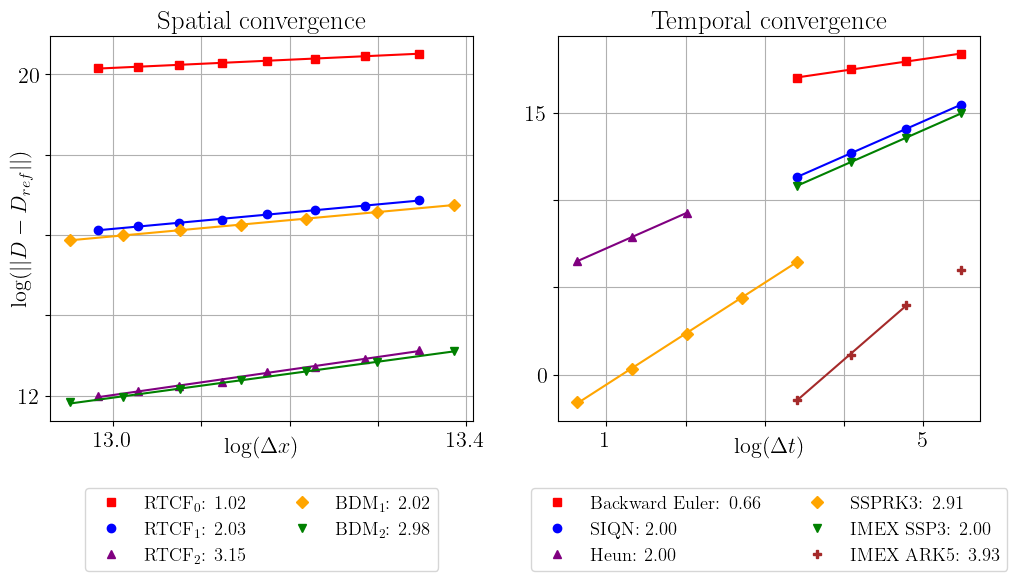
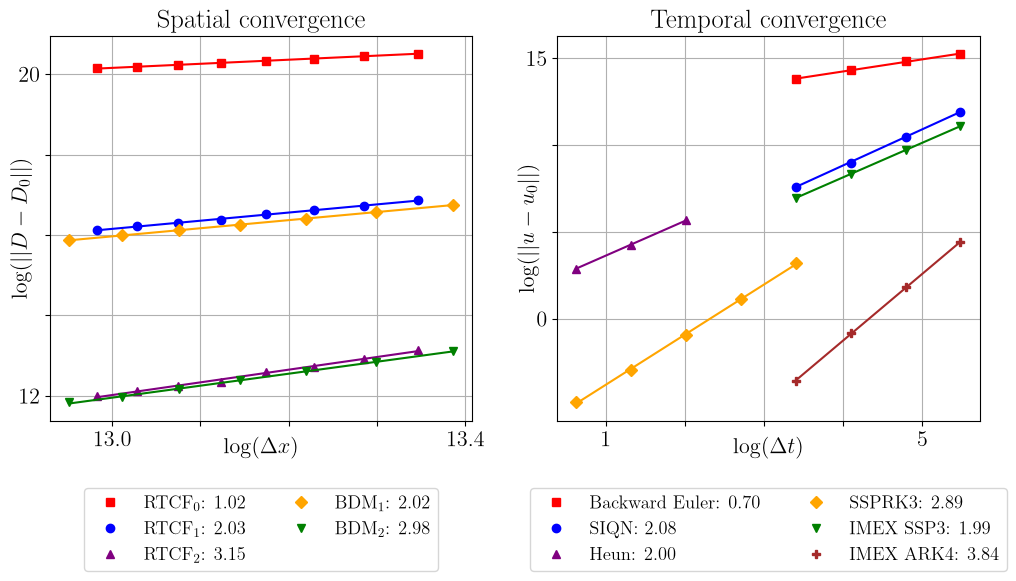
final plotting and test scripts

diff --git a/test_scripts/compute_w6_error_data.py b/test_scripts/compute_w6_error_data.py
@@ -3,14 +3,14 @@ Computes error data for Williamson 6 temporal convergence test
 """
 
 import os
-from firedrake import Function, errornorm, CheckpointFile
+from firedrake import Function, errornorm, norm, CheckpointFile
 from netCDF4 import Dataset
 
 # -----------------------------------------
 # Configuration
 # -----------------------------------------
 
-raw_data_dir = '/data/users/alex.brown/data/isambard/w6_convergence/'
+raw_data_dir = '/data/users/alex.brown/data/gusto_paper_oct26/w6_convergence/'
 base_results_dir = f'{os.path.abspath(os.path.dirname(__file__))}/../results/'
 base_results_name = 'w6'
 
@@ -18,7 +18,7 @@ NCELLS = 128
 element = "RTCF1"
 
 # Implicit schemes and their dt values
-IMPLICIT_SCHEMES = ["backward_euler", "siqn", "imex_ark5", "imex_ssp3"]
+IMPLICIT_SCHEMES = ["backward_euler", "siqn", "imex_ark4", "imex_ssp3"]
 IMPLICIT_DTS     = [240.0, 120.0, 60.0, 30.0]
 IMPLICIT_DT_STRS = ["240", "120", "60", "30"]
 
@@ -40,7 +40,8 @@ def chkpt_path(base, scheme, dt_str):
     return os.path.join(base, scheme, dirname, "chkpt.h5")
 
 def true_chkpt_path(base):
-    return os.path.join(base, "true", "chkpt.h5")
+    dirname = "williamson6_dt1_C128_RK4C128"
+    return os.path.join(base, "true", dirname, "chkpt.h5")
 
 # -----------------------------------------
 # Load checkpoint
@@ -59,7 +60,7 @@ def load_chkpt(path):
 # Compute errors for one scheme
 # -----------------------------------------
 
-def compute_errors(base, scheme, dts, dt_strs, D_true, t_true):
+def compute_errors(base, scheme, dts, dt_strs, D_true, u_true, t_true):
     for dt, dt_str in zip(dts, dt_strs):
         path = chkpt_path(base, scheme, dt_str)
         if not os.path.exists(path):
@@ -70,7 +71,7 @@ def compute_errors(base, scheme, dts, dt_strs, D_true, t_true):
             results_dir = f'{base_results_dir}/{base_results_name}_{scheme}_{element}_n{NCELLS}_dt{dt_str}'
             os.makedirs(results_dir, exist_ok=True)
 
-            D, _, mesh, t, step = load_chkpt(path)
+            D, u, mesh, t, step = load_chkpt(path)
             print(f"  [{scheme}] dt={dt}: t={t}, step={step}")
             if abs(t - t_true) > 1e-6 * t_true:
                 print(f"  WARNING: t={t} does not match true t={t_true}, skipping.")
@@ -78,16 +79,24 @@ def compute_errors(base, scheme, dts, dt_strs, D_true, t_true):
 
             # Calculate error
             D_ref = Function(D.function_space()).interpolate(D_true)
-            l2_error = errornorm(D_ref, D, mesh=mesh)
+            u_ref = Function(u.function_space())
+            # Can't project to a "different" mesh but can just assign data
+            u_ref.dat.data[:] = u_true.dat.data[:]
+            l2_error_D = errornorm(D_ref, D, mesh=mesh)
+            l2_error_u = errornorm(u_ref, u, mesh=mesh)
 
             # Write error to new netcdf file
             error_file = os.path.join(results_dir, 'error_diagnostic.nc')
             with Dataset(error_file, 'w') as ncfile:
                 ncfile.createDimension('time', None)
-                error_var = ncfile.createVariable('D_error', 'f8', ('time',))
-                error_var.units = 'm'
-                error_var.long_name = 'L2 error in D against reference solution'
-                error_var[0] = l2_error
+                error_var_D = ncfile.createVariable('D_error', 'f8', ('time',))
+                error_var_D.units = 'm'
+                error_var_D.long_name = 'L2 error in D against reference solution'
+                error_var_D[0] = l2_error_D
+                error_var_u = ncfile.createVariable('u_error', 'f8', ('time',))
+                error_var_u.units = 'm'
+                error_var_u.long_name = 'L2 error in u against reference solution'
+                error_var_u[0] = l2_error_u
 
         except Exception as e:
             print(f"  WARNING: failed to process {path}: {e}")
@@ -100,7 +109,7 @@ def main():
     # Load true solution
     true_path = true_chkpt_path(raw_data_dir)
     print(f"Loading true solution: {true_path}")
-    D_true, _, _, t_true, step_true = load_chkpt(true_path)
+    D_true, u_true, _, t_true, step_true = load_chkpt(true_path)
     print(f"  True solution: t={t_true}, step={step_true}")
 
     # Compute errors for all schemes
@@ -110,14 +119,14 @@ def main():
         print(f"\n=== {scheme} (implicit) ===")
         scheme_results[scheme] = compute_errors(
             raw_data_dir, scheme, IMPLICIT_DTS, IMPLICIT_DT_STRS,
-            D_true, t_true
+            D_true, u_true, t_true
         )
 
     for scheme in EXPLICIT_SCHEMES:
         print(f"\n=== {scheme} (explicit) ===")
         scheme_results[scheme] = compute_errors(
             raw_data_dir, scheme, EXPLICIT_DTS, EXPLICIT_DT_STRS,
-            D_true, t_true
+            D_true, u_true, t_true
         )
 
 if __name__ == "__main__":

diff --git a/plotting_scripts/plot_convergence.py b/plotting_scripts/plot_convergence.py
@@ -24,7 +24,7 @@ fig, axarray = plt.subplots(1, 2, figsize=(12, 5))
 # ---------------------------------------------------------------------------- #
 log_by = 'data'
 xlabel = r"$\log(\Delta x)$"
-ylabel = r"$\log(||D - D_{ref}||)$"
+ylabel = r"$\log(||D - D_0||)$"
 legend_loc = 'upper center'
 xlims = [12.7, 13.5]  # Set manually
 ylims = [11, 22]
@@ -76,14 +76,14 @@ axarray[0].grid()
 
 log_by = 'data'
 xlabel = r"$\log(\Delta t)$"
-ylabel = r"$\log(||D - D_{ref}||)$"
+ylabel = r"$\log(||u - u_0||)$"
 legend_loc = 'upper center'
 base_results_name = 'w6'
 
-schemes = ['backward_euler', 'siqn', 'heun', 'ssprk3', 'imex_ssp3', 'imex_ark5']
+schemes = ['backward_euler', 'siqn', 'heun', 'ssprk3', 'imex_ssp3', 'imex_ark4']
 colours = ['red', 'blue', 'purple', 'orange', 'green', 'brown', 'pink']
 markers = ['s', 'o', '^', 'D', 'v', 'P', '*']
-labels = [r'Backward Euler:', r'SIQN:', r'Heun:', r'SSPRK3:', r'IMEX SSP3:', r'IMEX ARK5:']
+labels = [r'Backward Euler:', r'SIQN:', r'Heun:', r'SSPRK3:', r'IMEX SSP3:', r'IMEX ARK4:']
 explicit_dt_values = [60.0, 30.0, 15.0, 7.5, 3.75, 1.875]
 implicit_dt_values = [240.0, 120.0, 60.0, 30.0]
 all_dt_values = [
@@ -112,14 +112,11 @@ for i, (scheme, dt_values, colour, marker, label) in enumerate(zip(schemes, all_
     actual_dt_values = []
 
     for dt_value in dt_values:
-        if scheme == 'imex_ark5' and dt_value == 240.0:
-            # Skip this point for now, will plot separately
-            continue
         try:
             dt_str = dt_str_dict[dt_value]
             results_name = f'{base_results_dir}/{base_results_name}_{scheme}_RTCF1_n128_dt{dt_str}/error_diagnostic.nc'
             results_file = Dataset(results_name, 'r')
-            data_point = results_file['D_error'][:][-1]
+            data_point = results_file['u_error'][:][-1]
             error_data.append(data_point)
             actual_dt_values.append(dt_value)
         except FileNotFoundError:
@@ -130,22 +127,9 @@ for i, (scheme, dt_values, colour, marker, label) in enumerate(zip(schemes, all_
         color=colour, marker=marker, log_by=log_by
     )
 
-    # Special exclusion of point from line of best fit
-    if scheme == 'imex_ark5':
-        dt_value = 240.0
-        dt_str = dt_str_dict[dt_value]
-        results_name = f'{base_results_dir}/{base_results_name}_{scheme}_RTCF1_n128_dt{dt_str}/error_diagnostic.nc'
-        results_file = Dataset(results_name, 'r')
-        data_point = results_file['D_error'][:][-1]
-        error_data = [data_point]
-        actual_dt_values = [dt_value]
-        plot_convergence(
-            axarray[1], actual_dt_values, error_data, label=None,
-            color=colour, marker=marker, log_by=log_by, best_fit=False
-        )
-
 axarray[1].set_title('Temporal convergence')
 axarray[1].set_xlabel(xlabel, labelpad=-10)
+axarray[1].set_ylabel(ylabel, labelpad=-10)
 axarray[1].legend(loc='upper center', bbox_to_anchor=(0.5, -0.15), ncol=2, fontsize='small')
 
 # Manually set ticks

diff --git a/plotting_scripts/plot_scalability.py b/plotting_scripts/plot_scalability.py
@@ -23,7 +23,6 @@ plot_dir = f'{abspath(dirname(__file__))}/../figures'
 
 plot_name = f'{plot_dir}/gusto_scalability.png'
 time_name = 'from_first_step_wall_time'
-csv_suffix = ''
 
 set_tomplot_style(20)
 fig, axarray = plt.subplots(1, 2, figsize=(16, 7))
@@ -32,7 +31,7 @@ fig, axarray = plt.subplots(1, 2, figsize=(16, 7))
 # Strong Scaling
 # ---------------------------------------------------------------------------- #
 
-csv_file = f'/data/users/thomas.bendall/gusto_gmd_paper_results/results/baroclinic_wave_strong_scaling{csv_suffix}.csv'
+csv_file = f'/data/users/thomas.bendall/gusto_gmd_paper_results/results/strong_scaling.csv'
 xlabel = r"Number of Cores"
 ylabel = r"Speed (Timesteps Per Wallclock Second)"
 
@@ -81,16 +80,19 @@ axarray[0].errorbar(
 for i, (x, y, dofs) in enumerate(zip(unique_process_counts, mean_speeds, dofs_per_proc)):
     if i == 0:
         ha = 'left'
+        va = 'top'
         offset = (0, -18)
     elif i == len(unique_process_counts) - 1:
         ha = 'right'
-        offset = (8, -10)
+        va = 'bottom'
+        offset = (8, 10)
     else:
         ha = 'center'
+        va = 'top'
         offset = (0, -18)
     axarray[0].annotate(
         f'DoFs per core:\n{format_dofs(dofs)}', (x, y), textcoords='offset points',
-        xytext=offset, ha=ha, va='top', fontsize=11
+        xytext=offset, ha=ha, va=va, fontsize=11
     )
 
 # Ideal scaling line, going through first point
@@ -117,7 +119,7 @@ axarray[0].grid()
 # Weak Scaling
 # ---------------------------------------------------------------------------- #
 
-csv_file = f'/data/users/thomas.bendall/gusto_gmd_paper_results/results/baroclinic_wave_weak_scaling{csv_suffix}.csv'
+csv_file = f'/data/users/thomas.bendall/gusto_gmd_paper_results/results/weak_scaling.csv'
 xlabel = r"Number of Cores"
 ylabel = r"Speed (Timesteps Per Wallclock Second)"
 
@@ -186,7 +188,7 @@ axarray[1].text(
     transform=axarray[1].transAxes, ha='center', va='top', fontsize=16
 )
 axarray[1].set_ylim(0, 0.3)
-axarray[1].set_yticks([0, 0.1, 0.2, 0.3])
+axarray[1].set_yticks([0, 0.1, 0.2, 0.35])
 axarray[1].set_yticklabels([r'$0.0$', '', '', r'$0.3$'])
 axarray[1].grid()
 

diff --git a/test_scripts/baroclinic_wave.py b/test_scripts/baroclinic_wave.py
@@ -25,11 +25,11 @@ from gusto import (
 )
 
 dry_baroclinic_sphere_defaults = {
-    'ncell_per_edge': 32,      # 48 is max
+    'ncell_per_edge': 48,      # 48 is max that will fit in memory here
     'nlayers': 15,             # 15 is fine
-    'dt': 900.0,               # 15 minutes
+    'dt': 600.0,               # 10 minutes
     'tmax': 10.*24.*60.*60.,   # 10 days
-    'dumpfreq': 48,            # Corresponds to every 12 hours with default opts
+    'dumpfreq': 72,            # Corresponds to every 12 hours with default opts
     'dirname': 'dry_baroclinic_sphere',
     'horder': 1,
     'vorder': 1

diff --git a/plotting_scripts/plot_baroclinic_lonlat.py b/plotting_scripts/plot_baroclinic_lonlat.py
@@ -21,7 +21,7 @@ test = 'dry_baroclinic_sphere'
 # ---------------------------------------------------------------------------- #
 # Directory for results and plots
 # ---------------------------------------------------------------------------- #
-results_file_name = '/data/users/alex.brown/data/isambard/dry_baroclinic_sphere_dt450_C96_30L/field_output.nc'
+results_file_name = f'{abspath(dirname(__file__))}/../results/{test}/field_output.nc'
 plot_stem = f'{abspath(dirname(__file__))}/../figures/{test}'
 
 # ---------------------------------------------------------------------------- #
